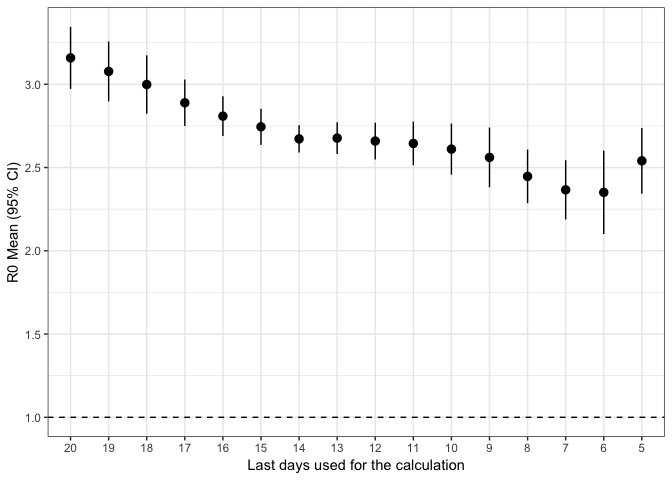
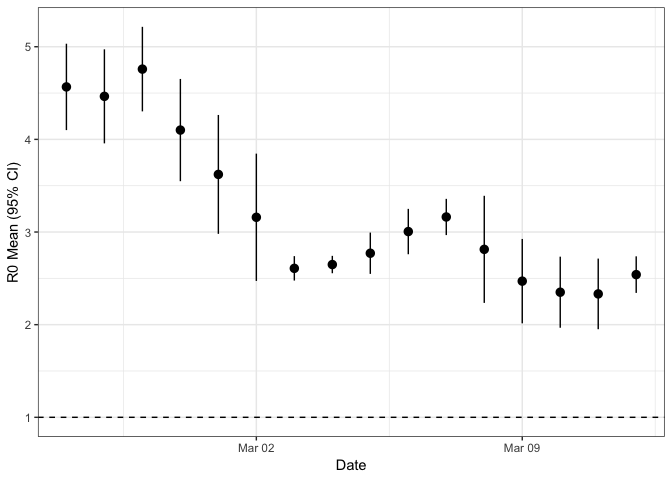
Add home page, navigation and theme

diff --git a/draft_analysis_Italy.md b/draft_analysis_Italy.md
@@ -12,7 +12,7 @@ Civil Protection.
 ``` r
 rm(list=ls())
 ###import italian dataset updated 13 March 2020
-dat_csv<-read.csv("https://raw.githubusercontent.com/pcm-dpc/COVID-19/master/dati-andamento-nazionale/dpc-covid19-ita-andamento-nazionale.csv",header=T)
+  dat_csv<-read.csv("https://raw.githubusercontent.com/pcm-dpc/COVID-19/master/dati-andamento-nazionale/dpc-covid19-ita-andamento-nazionale.csv",header=T)
 days<-dim(dat_csv)[1]
 dat_csv$t<-1:days
 #database contains  the following variables
@@ -33,13 +33,6 @@ days
 ```
 
     ## [1] 20
-
-``` r
-plot(as.Date(substr(dat_csv$data,1,10)),dat_csv$totale_attualmente_positivi,ylab=" Infected",xlab="Date",type="l")
-points(as.Date(substr(dat_csv$data,1,10)),dat_csv$totale_attualmente_positivi)
-```
-
-![](draft_analysis_Italy_files/figure-gfm/setup-1.png)<!-- -->
 
 With the aim of predicting the future number of COVID19 cases on the
 basis of the actual data, we used a SEIR model applied to the COVID19
@@ -130,37 +123,36 @@ the worst scenario because in this period low impact COVID19 symptoms
 can be confused with the concomitant FLU epidemic
 (<https://www.webmd.com/lung/news/20200310/know-the-symptoms-of-covid19>).
 
-We calculate several R0 values, each one based on a different number of
-days before the last day, in order to assess if the R0 trend is
-decreasing (how is expected to be).
+We calculate several R0 values, each one based on a mobile window of 5
+days, that can be sufficient to estimate a local trend, in order to
+assess if the R0 trend is decreasing (how is expected to be).
 
 ``` r
-#calculate r0 based in the last XX observation 
+#calculate r0 based with a mobile window of 5 days
 #vector for beta and standard deviation
 beta_vec<-NULL
 sd_vec<-NULL
-#for cycle for all days to only the last 5.
-for (i in 1:(days-4)){
-fit <- lm(log(totale_attualmente_positivi)~t,data=dat_csv[i:days,])
+#for cycle for R0 estimates from days-2 to days+2
+for (i in 3:(days-2)){
+fit <- lm(log(totale_attualmente_positivi)~t,data=dat_csv[(i-2):(i+2),])
 beta_vec<-c(beta_vec,coef(fit)[2])
 sd_vec<-c(sd_vec,coef(summary(fit))[2,2])
 }
 
+label<-as.Date(substr(dat_csv$data,1,10))[3:(days-2)]
 
-label <-days:5
 
 mean  <- (beta_vec*14)
 lower <- ((beta_vec-1.96*sd_vec)*14)
 upper <- ((beta_vec+1.96*sd_vec)*14)
 
-df <- data.frame(label, mean, lower, upper)[order(label),]
-df$label <- factor(df$label, levels=rev(df$label))
+df <- data.frame(label, mean, lower, upper)
 
 library(ggplot2)
 fp <- ggplot(data=df, aes(x=label, y=mean, ymin=lower, ymax=upper)) +
-  geom_pointrange() + 
+  geom_pointrange() +
   geom_hline(yintercept=1, lty=2) +  # add a dotted line at x=1 after flip
-  xlab("Last days used for the calculation") + ylab("R0 Mean (95% CI)") +
+  xlab("Date") + ylab("R0 Mean (95% CI)") +
   theme_bw() 
 print(fp)
 ```
@@ -176,19 +168,11 @@ the fitting of the model to the data.
 
 ``` r
 library(splines)
-time<-1:(days-4)
-# splines with only 3 basis, weighted for standard deviation of estimates.
-beta.model<-glm(beta_vec~bs(time,3),weights = 1/sd_vec,family=Gamma)
+time<-3:(days-2)
+beta.model<-glm(beta_vec~time,weights = 1/sd_vec,family=Gamma)
 forecast=14
 # add 'fit', 'lwr', and 'upr' columns to dataframe (generated by predict)
 pre<-predict(beta.model,type='response',newdata=data.frame(time=1:(days+forecast)),se.fit=TRUE)
-```
-
-    ## Warning in bs(time, degree = 3L, knots = numeric(0), Boundary.knots =
-    ## c(1L, : some 'x' values beyond boundary knots may cause ill-conditioned
-    ## bases
-
-``` r
 date<-seq(as.Date("2020-02-24"),as.Date("2020-02-24")+forecast-1+dim(dat_csv)[1],1)
 beta.predict <- data.frame(beta_vec=c(beta_vec,rep(NA,forecast+4)),time=date,fit=pre$fit,lwr=pre$fit-1*1.96*pre$se.fit,upr=pre$fit+1*1.96*pre$se.fit)
 
@@ -206,8 +190,8 @@ p
 
 ![](draft_analysis_Italy_files/figure-gfm/R0%20forecast-1.png)<!-- -->
 
-R0 passes from a value of 3.16 in the initial phase to an estimated
-value of 1.87 at the ending of the 14-days forecast.
+R0 passes from a value of 4.57 in the initial phase to an estimated
+value of 1.51 at the ending of the 14-days forecast.
 
 We want to make a short term forecast (14 days) with 3 scenario, based
 on the number of exposed people:
@@ -309,12 +293,12 @@ legend("topleft",c("first scenario - Exp=10*I","second scenario Exp=5*I","third 
 
 The 3 scenarios show different numbers. If we consider the second
 scenario, at the end of the 2 weeks (2020-03-28) the number of infected
-is (4.581521310^{4}).
+is (4.365968410^{4}).
 
 In the next plot the cumulative number of infected.  
 At the end of the 2 weeks (2020-03-28) the total number of COVID19 cases
 is expected to be
-(7.344144410^{4}).
+(7.073708110^{4}).
 
 ``` r
 plot(date,c(dat_csv$totale_casi,(seir1$I+seir1$R)*N),type="l",ylab="Cases",xlab="time",main="Cumulative Infected")

diff --git a/draft_analysis_Veneto.md b/draft_analysis_Veneto.md
@@ -107,34 +107,36 @@ the worst scenario because in this period low impact COVID19 symptoms
 can be confused with the concomitant FLU epidemic
 (<https://www.webmd.com/lung/news/20200310/know-the-symptoms-of-covid19>).
 
-We calculate several R0 values, each one based on a different number of
-days before the last day, in order to assess if the R0 trend is
-decreasing (how is expected to be).
+We calculate several R0 values, each one based on a mobile window of 5
+days, that can be sufficient to estimate a local trend, in order to
+assess if the R0 trend is decreasing (how is expected to be).
 
 ``` r
+#calculate r0 based in the last XX observation 
+#vector for beta and standard deviation
 beta_vec<-NULL
 sd_vec<-NULL
-for (i in 1:(days-4)){
-fit <- lm(log(totale_attualmente_positivi)~t,data=dat_csv[i:days,])
+#for cycle for all days to only the last 5.
+for (i in 3:(days-2)){
+fit <- lm(log(totale_attualmente_positivi)~t,data=dat_csv[(i-2):(i+2),])
 beta_vec<-c(beta_vec,coef(fit)[2])
 sd_vec<-c(sd_vec,coef(summary(fit))[2,2])
 }
 
+label<-as.Date(substr(dat_csv$data,1,10))[3:(days-2)]
 
-label <-days:5
+
 mean  <- (beta_vec*14)
 lower <- ((beta_vec-1.96*sd_vec)*14)
 upper <- ((beta_vec+1.96*sd_vec)*14)
-
-df <- data.frame(label, mean, lower, upper)[order(label),]
-df$label <- factor(df$label, levels=rev(df$label))
+df <- data.frame(label, mean, lower, upper)
 
 library(ggplot2)
 fp <- ggplot(data=df, aes(x=label, y=mean, ymin=lower, ymax=upper)) +
-  geom_pointrange() + 
+  geom_pointrange() +
   geom_hline(yintercept=1, lty=2) +  # add a dotted line at x=1 after flip
-  xlab("Last days used for the calculation") + ylab("R0 Mean (95% CI)") +
-  theme_bw()  # use a white background
+  xlab("Date") + ylab("R0 Mean (95% CI)") +
+  theme_bw() 
 print(fp)
 ```
 
@@ -149,19 +151,12 @@ the fitting of the model to the data.
 
 ``` r
 library(splines)
-time<-1:(days-4)
+time<-3:(days-2)
 
-beta.model<-glm(beta_vec~bs(time,3),weights = 1/sd_vec,family=Gamma)
+beta.model<-glm(beta_vec~time,weights = 1/sd_vec,family=Gamma)
 forecast=14
 # add 'fit', 'lwr', and 'upr' columns to dataframe (generated by predict)
 pre<-predict(beta.model,type='response',newdata=data.frame(time=1:(days+forecast)),se.fit=TRUE)
-```
-
-    ## Warning in bs(time, degree = 3L, knots = numeric(0), Boundary.knots =
-    ## c(1L, : some 'x' values beyond boundary knots may cause ill-conditioned
-    ## bases
-
-``` r
 date<-seq(as.Date("2020-02-24"),as.Date("2020-02-24")+forecast-1+dim(dat_csv)[1],1)
 beta.predict <- data.frame(beta_vec=c(beta_vec,rep(NA,forecast+4)),time=date,fit=pre$fit,lwr=pre$fit-1*1.96*pre$se.fit,upr=pre$fit+1*1.96*pre$se.fit)
 
@@ -179,8 +174,8 @@ p
 
 ![](draft_analysis_Veneto_files/figure-gfm/R0%20forecast-1.png)<!-- -->
 
-R0 passes from a value of 2.62 in the initial phase to an estimated
-value of 0.71 at the ending of the 14-days forecast.
+R0 passes from a value of 5.64 in the initial phase to an estimated
+value of 1.1 at the ending of the 14-days forecast.
 
 We want to make a short term forecast (14 days) with 3 scenario:
 
@@ -281,12 +276,12 @@ legend("topleft",c("Scenario 1 - Exp=10*I","Scenario - Exp=5*I","Scenario - Exp=
 
 The 3 scenarios show different numbers. If we consider the second
 scenario, at the end of the 2 weeks (2020-03-28) the number of infected
-is (4388.1668011).
+is (4081.1365823).
 
 In the next plot the cumulative number of infected.  
 At the end of the 2 weeks (2020-03-28) the total number of COVID19 cases
 is expected to be
-(7056.29651).
+(6618.228685).
 
 ``` r
 plot(date,c(dat_csv$totale_casi,(seir1$I+seir1$R)*N),type="l",ylab="Cases",xlab="time",main="Cumulative Infected")
